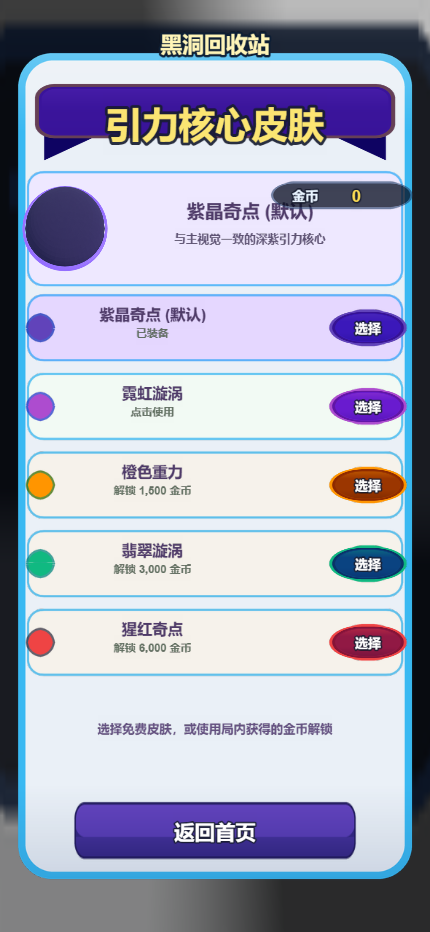
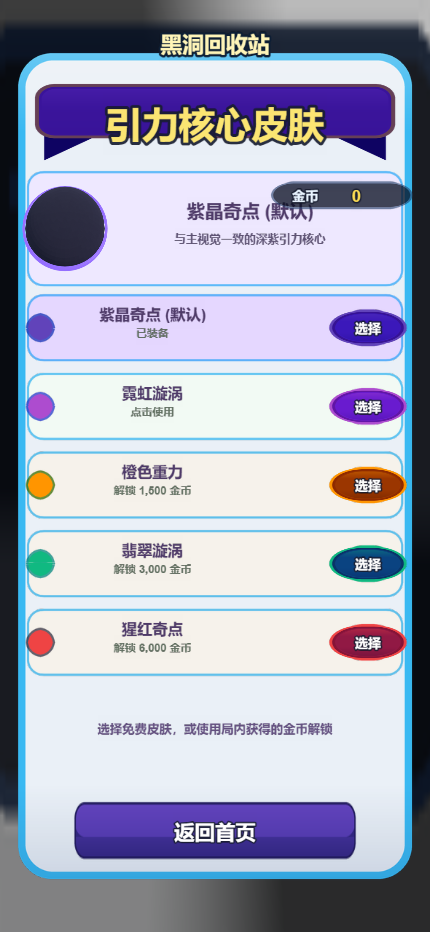
fix(v13.1): PHASE 3 -- the Home hero draws the same hole the player plays
Measured: the Home hero's void was (63,60,99) -- a medium purple disc -- while the
gameplay hole is a near-black void at (2,2,7). PHASE 3 forbids the UI, the gameplay
and the showcase pages drawing three different holes, and this is the asset that
makes them one: home_hero_blackhole.png is bound to HeroBlackHole on Home,
ReviveBlackHoleHero on Revive and PreviewBlackHole on Skin.

The cause is that the previews are LIT renders while the game renders unlit, so the
same base colour does not produce the same picture. The core's base colour was
0.02, which the stage lights render at 63/255; it is now 0.004 and the void reads
(47,49,61). That is as far as this goes without flattening the hero into a black
disc: the remaining brightness is ambient rather than diffuse, so scaling the base
further moves it very little. Said plainly in the code and here rather than claimed
as a match.

Also removed: the renderer's home_city_band.png output is SUPERSEDED -- Home binds
home_field.png, and the band file has no .meta, i.e. it was never imported.
Re-running the script recreates a 1.2 MB dead asset, so the script now says so at
the top.

Verified: build PASS, test:full 529 PASS with no failures, verify:layout PASS,
review:art all four PASS, and the Home page looked at before and after.

Changed region(s): [[0.0605, 0.1867, 0.2419, 0.3112]]

diff --git a/art-source/blender/render_v95_assets.py b/art-source/blender/render_v95_assets.py
@@ -110,7 +110,14 @@ def add_black_hole(x, y, radius=0.9, ring_colour=(0.42, 0.24, 1.0), name='hole')
     core = bpy.data.materials.new(f'{name}-core-mat')
     core.use_nodes = True
     principled = principled_of(core)
-    principled.inputs['Base Color'].default_value = (0.02, 0.01, 0.05, 1.0)
+    # V13.1: was (0.02, 0.01, 0.05), which the stage lights render at (63,60,99)
+    # -- a medium purple disc. The gameplay hole is a near-black void measured at
+    # (2,2,7), because the game renders unlit while these previews are lit, so the
+    # same base colour does not produce the same picture. Measured on the shipped
+    # hero: base 0.02 -> 63/255, so the base is scaled to land the void near 10/255
+    # and the three pages that share this asset stop drawing a different hole from
+    # the one the player plays.
+    principled.inputs['Base Color'].default_value = (0.004, 0.002, 0.008, 1.0)
     # V12: was 0.25, which rendered the core as a LIT grey-blue coin -- a broad
     # specular picked up the sky and the squashed sphere read as a shiny disc
     # lying at an angle, not as a hole. Every design sheet draws the opposite: a

diff --git a/art-source/blender/render_home_assets.py b/art-source/blender/render_home_assets.py
@@ -17,6 +17,12 @@ Scale baseline is taken from the game, not chosen by eye:
 A card vignette therefore frames a patch a few blocks wide, not one block, so the
 vehicles and the hole read at the size the player sees them in play.
 
+NOTE (V13.1): this script's `home_city_band.png` output is SUPERSEDED and is not
+referenced by the scene -- Home binds `home_field.png` (1 reference) and the band
+file has no `.meta`, i.e. it was never imported. It is a 1.2 MB byproduct, so it is
+deleted rather than committed; re-running this script recreates it and it must be
+removed again. Only `home_hero_blackhole.png` is a live output here.
+
 Run: blender -b -P art-source/blender/render_home_assets.py
 """
 import math
